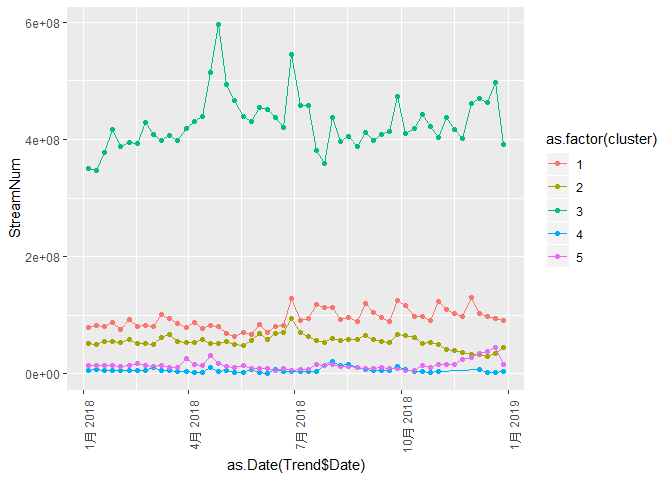
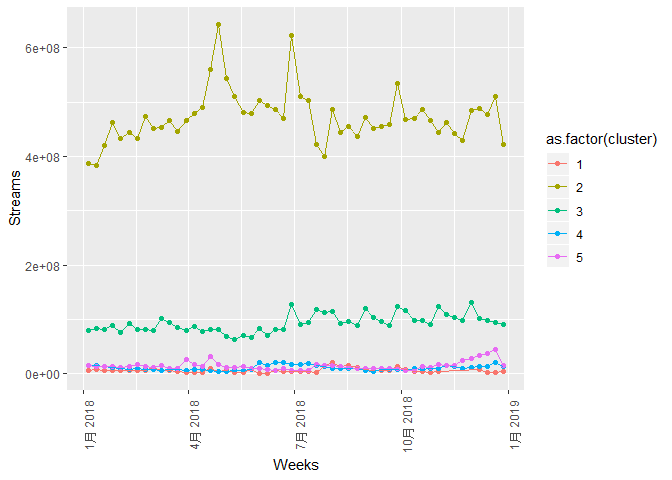
final version 2

diff --git a/Final Project/final_project.md b/Final Project/final_project.md
@@ -8,7 +8,7 @@ Introduction
 
 Popular music market is remarkably large, especially in recent years. Pop songs inspire generations from all walks of life. Every day, oceans of pop tracks jump on to the Top 200 List of Spotify. In this project, we analysed the data of the 2018 popular music database from Spotify.com, with the aim of helping digital music servers to improve playlist song recommendations, and, helping record companies to make album promotion decisions according to the predictions on the playing streams.
 
-This project mainly answered the following questions: first, predict the streams of the tracks; and second, analysis the pattern of the popularity trend. As for the first question, we used stepwise method, the lasso method and the random forest and boosting to build a prediction model of track streams, with the features of the songs and the albums as predictors. As for the second question, we firstly used PCA and K-means to cluster the songs by features, dividing songs into different categories; then we plotted the trend of the popularity of different types of songs, showing the changes in the trend of listener’s tastes.
+This project mainly answered the following questions: first, predict the streams of the tracks; and second, analysis the pattern of the popularity trend. As for the first question, we used stepwise method, the lasso method and the random forest and boosting to build a prediction model of track streams, with the features of the songs and the albums as predictors. As for the second question, we firstly used PCA and K-means to cluster the songs by features, dividing songs into different categories; then we plotted the trend of the popularity of different types of songs, showing the changes in the trend of listener??s tastes.
 
 Data
 ----
@@ -53,7 +53,7 @@ Thanks to Spotify's public API, we also have access to the data on the song feat
 </tr>
 <tr class="even">
 <td>instrumentalness</td>
-<td>Predicts whether a track contains no vocals. 鈥淥oh鈥? and 鈥渁ah鈥? sounds are treated as instrumental in this context. Rap or spoken word tracks are clearly 鈥渧ocal鈥?. The closer the instrumentalness value is to 1.0, the greater likelihood the track contains no vocal content. Values above 0.5 are intended to represent instrumental tracks, but confidence is higher as the value approaches 1.0.</td>
+<td>Predicts whether a track contains no vocals. “Ooh??? and “aah??? sounds are treated as instrumental in this context. Rap or spoken word tracks are clearly “vocal???. The closer the instrumentalness value is to 1.0, the greater likelihood the track contains no vocal content. Values above 0.5 are intended to represent instrumental tracks, but confidence is higher as the value approaches 1.0.</td>
 </tr>
 <tr class="odd">
 <td>liveness</td>
@@ -81,7 +81,7 @@ Thanks to Spotify's public API, we also have access to the data on the song feat
 </tr>
 <tr class="odd">
 <td>key</td>
-<td>The estimated overall key of the track. Integers map to pitches using standard Pitch Class notation . E.g. 0 = C, 1 = C鈾?/D鈾?, 2 = D, and so on. If no key was detected, the value is -1.</td>
+<td>The estimated overall key of the track. Integers map to pitches using standard Pitch Class notation . E.g. 0 = C, 1 = C???/D???, 2 = D, and so on. If no key was detected, the value is -1.</td>
 </tr>
 <tr class="even">
 <td>time_signature</td>
@@ -125,6 +125,8 @@ We then used the Lasso model to assemble the best predictive model possible for 
 
 In the model 3, from the path plot below we could see that minimum AIC occurs at segment 8
 
+<b> Figure1: Pathplot of Lasso (Model 3) </b>
+
 ![](final_project_files/figure-markdown_github/pathplot3-1.png)
 
 Thus, we used the model at the segment 8 and chose 6 coefficients. The specific model is shown below.
@@ -135,6 +137,8 @@ Thus, we used the model at the segment 8 and chose 6 coefficients. The specific 
     ##     relseaseDuration
 
 In the model4, from the path plot below we could see that minimum AIC occurs at segment 5.
+
+<b> Figure2: Pathplot of Lasso (Model 4) </b>
 
 ![](final_project_files/figure-markdown_github/pathplot4-1.png)
 
@@ -152,12 +156,12 @@ Table2: RMSE of different models
 
 | t1      | t2               |
 |:--------|:-----------------|
-| Model 1 | 34869450.5933    |
-| Model 2 | 34733934.5410531 |
-| Model 3 | 34855484.4450786 |
-| Model 4 | 34873901.2943559 |
-| Model 5 | 34342277.4597034 |
-| Model 6 | 34859581.5918975 |
+| Model 1 | 34814856.692731  |
+| Model 2 | 34516858.7946194 |
+| Model 3 | 34800827.1259022 |
+| Model 4 | 34801152.3908246 |
+| Model 5 | 34944265.8389199 |
+| Model 6 | 34813307.0549766 |
 
 Lastly, we used k-fold cross validation in order to compare 6 models above. We found that the CVs of model 2 has the minimum CV, and therefore it is our best predictive model possible for streams. The advantage of a linear model is that a linear model with interactions is much easier to interpret than the non-linear models.
 
@@ -167,39 +171,41 @@ Table3: coefficients of model 2
 
 |                               |  coefficients.Estimate|  coefficients.Std..Error|  coefficients.t.value|  coefficients.Pr...t..|
 |-------------------------------|----------------------:|------------------------:|---------------------:|----------------------:|
-| (Intercept)                   |           1.064737e+07|             1.453169e+07|             0.7326997|              0.4638720|
-| duration\_ms\_x               |          -1.862350e+01|             2.066016e+01|            -0.9014210|              0.3675293|
-| acousticness                  |          -6.168861e+06|             1.408381e+07|            -0.4380107|              0.6614504|
-| danceability                  |           2.322641e+07|             8.297456e+06|             2.7992212|              0.0051973|
-| energy                        |           3.248861e+06|             1.433211e+07|             0.2266840|              0.8207047|
-| liveness                      |           1.204823e+08|             3.877498e+07|             3.1072165|              0.0019290|
-| loudness                      |           9.834096e+05|             6.099453e+05|             1.6122916|              0.1071381|
-| mode                          |           6.101542e+06|             3.117406e+06|             1.9572497|              0.0505291|
-| speechiness                   |           1.757584e+07|             1.957359e+07|             0.8979363|              0.3693836|
-| valence                       |          -1.858801e+07|             7.979914e+06|            -2.3293496|              0.0199911|
-| key6                          |           9.372802e+06|             1.124741e+07|             0.8333295|              0.4048100|
-| key8                          |          -3.254522e+07|             2.418942e+07|            -1.3454319|              0.1787174|
-| key10                         |          -7.113038e+06|             4.297545e+06|            -1.6551400|              0.0981344|
-| explicitTRUE                  |          -6.567108e+07|             2.567363e+07|            -2.5579197|              0.0106412|
-| relseaseDuration              |           1.040335e+02|             3.490448e+02|             0.2980519|              0.7657106|
-| explicitTRUE:relseaseDuration |           8.437980e+03|             3.300256e+03|             2.5567654|              0.0106764|
-| valence:explicitTRUE          |           2.396277e+07|             9.354687e+06|             2.5615795|              0.0105303|
-| duration\_ms\_x:key8          |           1.654167e+02|             7.251485e+01|             2.2811432|              0.0226990|
-| energy:liveness               |          -1.596232e+08|             5.151937e+07|            -3.0983146|              0.0019874|
-| acousticness:liveness         |          -1.074239e+08|             4.051796e+07|            -2.6512653|              0.0081153|
-| mode:speechiness              |          -2.982112e+07|             1.459738e+07|            -2.0429087|              0.0412602|
-| mode:key10                    |           1.347065e+07|             6.781830e+06|             1.9862862|              0.0472086|
-| speechiness:explicitTRUE      |          -3.031850e+07|             1.990232e+07|            -1.5233650|              0.1279075|
-| liveness:key6                 |           4.232168e+07|             3.243678e+07|             1.3047436|              0.1922081|
-| acousticness:energy           |           4.885093e+07|             2.304482e+07|             2.1198223|              0.0342076|
-| valence:key6                  |          -4.016925e+07|             1.964165e+07|            -2.0451059|              0.0410428|
-| mode:key6                     |           9.062526e+06|             8.200863e+06|             1.1050698|              0.2693312|
-| danceability:key8             |          -3.121389e+07|             2.458413e+07|            -1.2696766|              0.2044241|
-| key8:explicitTRUE             |           2.341326e+07|             9.793999e+06|             2.3905723|              0.0169619|
-| valence:key8                  |           3.800331e+07|             1.728532e+07|             2.1985890|              0.0280806|
-| speechiness:key8              |          -3.985407e+07|             2.782415e+07|            -1.4323551|              0.1522795|
+| (Intercept)                   |           1.610315e+07|             1.527626e+07|             1.0541292|              0.2920171|
+| duration\_ms\_x               |          -2.782328e+01|             2.138038e+01|            -1.3013464|              0.1933675|
+| acousticness                  |          -8.409955e+05|             1.430565e+07|            -0.0587876|              0.9531302|
+| danceability                  |           2.420147e+07|             8.436447e+06|             2.8686806|              0.0041876|
+| energy                        |           1.993447e+05|             1.484666e+07|             0.0134269|              0.9892892|
+| liveness                      |           1.367288e+08|             4.027370e+07|             3.3949891|              0.0007067|
+| loudness                      |           1.359647e+06|             6.213027e+05|             2.1883815|              0.0288170|
+| mode                          |           6.927869e+06|             3.151175e+06|             2.1985035|              0.0280867|
+| speechiness                   |           2.833149e+07|             1.937353e+07|             1.4623813|              0.1438753|
+| valence                       |          -1.798842e+07|             7.892760e+06|            -2.2791039|              0.0228203|
+| key6                          |           8.023674e+06|             1.071018e+07|             0.7491636|              0.4538924|
+| key8                          |          -1.776449e+07|             2.607050e+07|            -0.6814017|              0.4957371|
+| key10                         |          -7.913282e+06|             4.349166e+06|            -1.8194941|              0.0690630|
+| explicitTRUE                  |          -7.784787e+07|             2.590728e+07|            -3.0048646|              0.0027072|
+| relseaseDuration              |           6.000073e+00|             3.436813e+02|             0.0174582|              0.9860737|
+| explicitTRUE:relseaseDuration |           9.868721e+03|             3.331921e+03|             2.9618709|              0.0031126|
+| valence:explicitTRUE          |           2.624880e+07|             9.407662e+06|             2.7901511|              0.0053443|
+| duration\_ms\_x:key8          |           1.798120e+02|             7.808314e+01|             2.3028274|              0.0214438|
+| energy:liveness               |          -1.747848e+08|             5.332286e+07|            -3.2778593|              0.0010733|
+| acousticness:liveness         |          -1.182352e+08|             3.916593e+07|            -3.0188269|              0.0025863|
+| mode:speechiness              |          -3.595017e+07|             1.481408e+07|            -2.4267571|              0.0153679|
+| mode:key10                    |           1.897850e+07|             7.038272e+06|             2.6964712|              0.0070972|
+| speechiness:explicitTRUE      |          -4.084091e+07|             1.986392e+07|            -2.0560346|              0.0399759|
+| liveness:key6                 |           5.186566e+07|             3.074621e+07|             1.6868962|              0.0918601|
+| acousticness:energy           |           3.890194e+07|             2.336503e+07|             1.6649642|              0.0961578|
+| valence:key6                  |          -3.923775e+07|             1.829996e+07|            -2.1441437|              0.0322040|
+| mode:key6                     |           1.041353e+07|             7.833259e+06|             1.3294000|              0.1839463|
+| danceability:key8             |          -5.685399e+07|             2.548938e+07|            -2.2304971|              0.0258824|
+| key8:explicitTRUE             |           2.773616e+07|             9.606567e+06|             2.8872083|              0.0039502|
+| valence:key8                  |           2.938672e+07|             1.694164e+07|             1.7345846|              0.0830484|
+| speechiness:key8              |          -3.423017e+07|             2.630103e+07|            -1.3014762|              0.1933231|
 
 From model 2, we can clearly see that danceability, energy, liveness, loudness, mode, spechiness and key6 have positive effects on streams, which means the more these factors used in the song, the more people the song will be played by. Also, we need to pay attention to release duration of the album . The longer the release duration is, the song will be played by less people, which means people prefer to play latest songs on Spotify.
+
+<b> Figure3: partial dependence plot (Model 5) </b>
 
 ![](final_project_files/figure-markdown_github/pdp-1.png)
 
@@ -210,7 +216,7 @@ PCA and Clustering
 
 ### General methodologies
 
-In this section we would like to segment the 1,497 songs into groups with similar features in order to recommend to listeners who share the same interests/taste. For the reason of reducing unnecessary noises and computations, we first reduced the initial 27 variables by PCA. Next, we clustered them into groups with similar principle components, and based on the features in each principal component and the actual songs in each cluster, we were able to describe them in secular terminologies such as “genre”.
+In this section we would like to segment the 1,497 songs into groups with similar features in order to recommend to listeners who share the same interests/taste. For the reason of reducing unnecessary noises and computations, we first reduced the initial 27 variables by PCA. Next, we clustered them into groups with similar principle components, and based on the features in each principal component and the actual songs in each cluster, we were able to describe them in secular terminologies such as ??genre??.
 
 ### PCA
 
@@ -252,13 +258,19 @@ In the table above, we see that the first 20 principle components explain more t
 
 K-means++ clustering was used to determine our market segments. 3 types of supporting analysis were used to help us determine the the number of them(centroids): Elbow plot(SSE), CH index and Gap statistics.
 
+Figure4: SSE Grid vs K
+
 ![](final_project_files/figure-markdown_github/K-grid-1.png)
+
+<b>Figure5: CH Grid vs K</b>
 
 ![](final_project_files/figure-markdown_github/CH-grid-1.png)
 
+<b> Figure6: Gap vs K </b>
+
 ![](final_project_files/figure-markdown_github/Gap-1.png)
 
-As shown above, both elbow plot and CH index returned K=16 and gap statistics K=4. Clustering 16 segments would not show us distinct differences among them as we now only have 20 principle components to allocate. So we selected K=4 as our anchor and explored the nearby Ks to see which one provides us the best explanation for each cluster. By “best explanation”, we considered the following 2 categories.
+As shown above, both elbow plot and CH index returned K=16 and gap statistics K=4. Clustering 16 segments would not show us distinct differences among them as we now only have 20 principle components to allocate. So we selected K=4 as our anchor and explored the nearby Ks to see which one provides us the best explanation for each cluster. By ??best explanation??, we considered the following 2 categories.
 
 -   Clusters that have songs with clear and unique distribution in any of the 20 features.
 
@@ -269,6 +281,8 @@ As the result, we eventually picked K = 5.
 ### Song market segments breakdown by distribution of features
 
 After the 5 clusters are determined, we reversed the principle components into the original features to determine cluster characteristics. We show some of the cluster identifiable distributions and the summary of each cluster below.
+
+<b> Figure7: cluster identifiable distributions </b>
 
 ![](final_project_files/figure-markdown_github/PC1-1.png)
 
@@ -304,9 +318,11 @@ Cluster 5: Many indie and pop songs with long vowel sounds, typical examples wou
 
 We also calculated the total streams of different song clusters by time. The following graph shows the trend in the total streams of different categories.
 
-From this graph we can see that the stream of five types of songs doesn't change too much in a year. Cluster 1 music has more streams overall, due to the fact that there are more songs in this categories. There is a peak in the end of April in 2018 for cluster 1, and then the streams goes back to normal. From this graph we can also see that at the end of the year cluster 1 music is not as popular as in the middle of the year, but type 3 music becomes more and more popular, especially in july and the end of the year. The popularity of cluster 2, cluster 4 and cluster 5 music doesn't change too much in the whole year.
+<b> Figure8: trend in the total streams </b>
 
 ![](final_project_files/figure-markdown_github/trend-1.png)
+
+From this graph we can see that the stream of five types of songs doesn't change too much in a year. Cluster 1 music has more streams overall, due to the fact that there are more songs in this categories. There is a peak in the end of April in 2018 for cluster 1, and then the streams goes back to normal. From this graph we can also see that at the end of the year cluster 1 music is not as popular as in the middle of the year, but type 3 music becomes more and more popular, especially in july and the end of the year. The popularity of cluster 2, cluster 4 and cluster 5 music doesn't change too much in the whole year.
 
 Conclusion
 ----------
